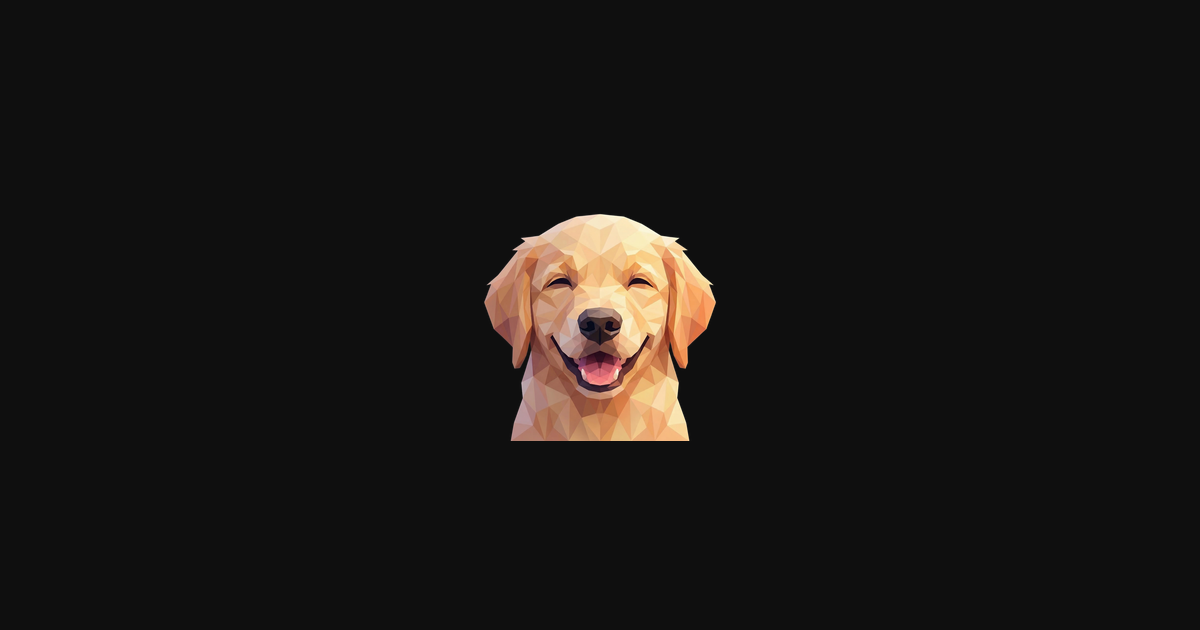
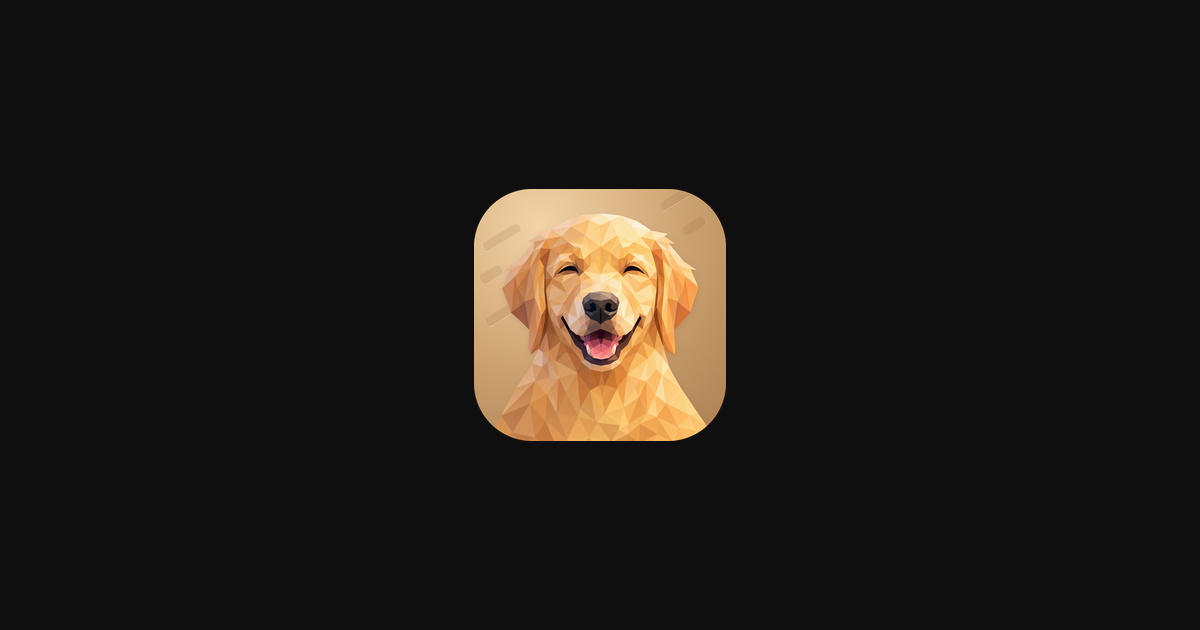
feat: refine neo animal identity

Changed region(s): [[0.37, 0.3016, 0.6167, 0.7238]]

diff --git a/app/page.tsx b/app/page.tsx
@@ -142,12 +142,12 @@ export default async function Home({
             {/* Badge content */}
             <div className="flex flex-1 flex-col items-center px-6 pt-6">
               {/* Logo avatar */}
-              <div className="flex h-24 w-24 items-center justify-center rounded-full bg-secondary dark:bg-background ring-1 ring-border overflow-hidden">
+              <div className="h-24 w-24 overflow-hidden rounded-[23%] shadow-sm">
                 <Image
-                  src="/logo-80.png"
+                  src="/icon-192.png"
                   alt="Neo"
-                  width={80}
-                  height={80}
+                  width={96}
+                  height={96}
                   className="h-full w-full object-cover"
                 />
               </div>

diff --git a/scripts/resize-logos.py b/scripts/resize-logos.py
@@ -1,19 +1,8 @@
 #!/usr/bin/env python3
-"""
-Generate all derived logo assets from the single-source logo.png.
+"""Generate Neo application assets from the adopted family masters.
 
-Usage:
-    python3 scripts/resize-logos.py
-
-Requires: Pillow (`pip install Pillow`)
-
-Outputs:
-    public/logo-24.png       — sidebar icon
-    public/logo-80.png       — login page icon
-    app/icon.png             — 32x32 favicon (Next.js file-based metadata)
-    app/apple-icon.png       — 180x180 Apple touch icon
-    app/favicon.ico          — 16+32 multi-size ICO
-    app/opengraph-image.png  — 1200x630 OG image (RGB, brand background)
+Run with: uv run --with pillow python scripts/resize-logos.py
+The transparent source, square tile and rounded tile share one composition.
 """
 
 from pathlib import Path
@@ -21,80 +10,49 @@ from pathlib import Path
 from PIL import Image
 
 ROOT = Path(__file__).resolve().parent.parent
-LOGO = ROOT / "logo.png"
-
-# Brand background color (dark, matches the logo's black background)
-BRAND_BG = (15, 15, 15)
+SOURCE = ROOT / "logo.png"
+BRAND = ROOT / "assets" / "brand"
 
 
-def resize(src: Image.Image, size: int) -> Image.Image:
-    """Resize preserving RGBA, using LANCZOS resampling."""
-    return src.resize((size, size), Image.LANCZOS)
-
-
-def make_og(src: Image.Image, width: int = 1200, height: int = 630) -> Image.Image:
-    """Create an OG image: brand background, logo centered at ~40% canvas height, RGBA→RGB."""
-    canvas = Image.new("RGB", (width, height), BRAND_BG)
-
-    # Scale logo to ~40% of canvas height
-    logo_h = int(height * 0.4)
-    logo = src.resize((logo_h, logo_h), Image.LANCZOS)
-
-    # Center horizontally, place at ~30% from top (visually centered)
-    x = (width - logo_h) // 2
-    y = (height - logo_h) // 2
-    canvas.paste(logo, (x, y), logo)  # use alpha mask
-
-    return canvas
-
-
-def make_ico(src: Image.Image) -> list[Image.Image]:
-    """Return 16px and 32px RGBA images for ICO embedding."""
-    return [resize(src, 16), resize(src, 32)]
+def save_png(image: Image.Image, relative: str, size: int) -> None:
+    destination = ROOT / relative
+    destination.parent.mkdir(parents=True, exist_ok=True)
+    image.resize((size, size), Image.Resampling.LANCZOS).save(destination, "PNG")
+    print(f"  {relative}: {size}x{size}")
 
 
 def main() -> None:
-    if not LOGO.exists():
-        raise FileNotFoundError(f"Source logo not found: {LOGO}")
+    foreground = Image.open(SOURCE).convert("RGBA")
+    square = Image.open(BRAND / "icon.png").convert("RGBA")
+    rounded = Image.open(BRAND / "icon-rounded.png").convert("RGBA")
+    if foreground.size != (2048, 2048) or square.size != foreground.size or rounded.size != foreground.size:
+        raise ValueError("All approved brand masters must share their 2048-square framing")
+    if square.getchannel("A").getextrema() != (255, 255) or rounded.getpixel((0, 0))[3] != 0:
+        raise ValueError("Square and rounded master roles are inconsistent")
+    save_png(rounded, "public/logo-24.png", 24)
+    save_png(rounded, "public/logo-80.png", 80)
+    save_png(square, "app/icon.png", 32)
+    save_png(square, "app/apple-icon.png", 180)
+    save_png(square, "public/icon-192.png", 192)
+    save_png(square, "public/icon-512.png", 512)
 
-    src = Image.open(LOGO).convert("RGBA")
-    print(f"Source: {LOGO} ({src.size[0]}x{src.size[1]}, {src.mode})")
+    ico_path = ROOT / "app/favicon.ico"
+    ico_path.parent.mkdir(parents=True, exist_ok=True)
+    ico_sizes = [(16, 16), (32, 32), (48, 48)]
+    square.save(ico_path, format="ICO", sizes=ico_sizes)
+    with Image.open(ico_path) as icon:
+        if icon.ico.sizes() != set(ico_sizes):
+            raise ValueError("Favicon is missing an expected embedded resolution")
+    print(f"  {ico_path.relative_to(ROOT)}: 16+32+48 ICO, verified")
 
-    public = ROOT / "public"
-    app = ROOT / "app"
-    public.mkdir(exist_ok=True)
-    app.mkdir(exist_ok=True)
-
-    # -- public/ assets (for <img> usage in components) --
-    for size, name in [(24, "logo-24.png"), (80, "logo-80.png"), (192, "icon-192.png"), (512, "icon-512.png")]:
-        out = public / name
-        resize(src, size).save(out, "PNG")
-        print(f"  ✓ {out.relative_to(ROOT)} ({size}x{size})")
-
-    # -- app/ metadata assets (Next.js file-based conventions) --
-    icon32 = resize(src, 32)
-    out = app / "icon.png"
-    icon32.save(out, "PNG")
-    print(f"  ✓ {out.relative_to(ROOT)} (32x32)")
-
-    apple = resize(src, 180)
-    out = app / "apple-icon.png"
-    apple.save(out, "PNG")
-    print(f"  ✓ {out.relative_to(ROOT)} (180x180)")
-
-    # favicon.ico — multi-size (16 + 32)
-    ico_sizes = make_ico(src)
-    out = app / "favicon.ico"
-    ico_sizes[0].save(out, format="ICO", append_images=ico_sizes[1:], sizes=[(16, 16), (32, 32)])
-    print(f"  ✓ {out.relative_to(ROOT)} (16+32 multi-size)")
-
-    # OG image
-    og = make_og(src)
-    out = app / "opengraph-image.png"
-    og.save(out, "PNG")
-    print(f"  ✓ {out.relative_to(ROOT)} (1200x630)")
-
-    print("\nDone! All assets generated.")
+    og = Image.new("RGB", (1200, 630), (15, 15, 15))
+    logo_size = round(630 * 0.4)
+    mark = rounded.resize((logo_size, logo_size), Image.Resampling.LANCZOS)
+    og.paste(mark, ((1200 - logo_size) // 2, (630 - logo_size) // 2), mark)
+    og_path = ROOT / "app/opengraph-image.png"
+    og_path.parent.mkdir(parents=True, exist_ok=True)
+    og.save(og_path, "PNG")
+    print(f"  {og_path.relative_to(ROOT)}: 1200x630")
 
 
 if __name__ == "__main__":

diff --git a/assets/brand/README.md b/assets/brand/README.md
@@ -1,0 +1,13 @@
+# Neo identity
+
+The adopted animal keeps the previous character, expression, palette, and signature details. Its lower anatomy continues naturally to the square boundary. Eyes, ears, horns, blossoms, and crown details remain inside the checked rounded-square safe area.
+
+- `logo.png` is the transparent 2048 × 2048 master.
+- `assets/brand/icon.png` is the square presentation for icons masked by the platform.
+- `assets/brand/icon-rounded.png` supplies its own rounded corners for the README and application surfaces.
+
+Use `uv run --with pillow python scripts/resize-logos.py` to regenerate application assets. The script verifies master dimensions, alpha roles, and embedded favicon resolutions.
+
+[Individual comparison and downloads](https://hexly.ai/logos/neo) · [Complete generation and finishing archive](https://github.com/nocoo/hexly.ai/tree/main/artwork/logo-family/neo/2026-09-07-02)
+
+`provenance.json` records the raw generation, selected finishing pass, previous identity, exact adopted hashes, and delegated review scope. Presentation colors remain separate from website theme tokens.

diff --git a/README.md b/README.md
@@ -1,4 +1,4 @@
-<p align="center"><img src="logo.png" width="128" height="128"/></p>
+<p align="center"><img src="assets/brand/icon-rounded.png" width="128" height="128"/></p>
 
 <h1 align="center">Neo</h1>
 
